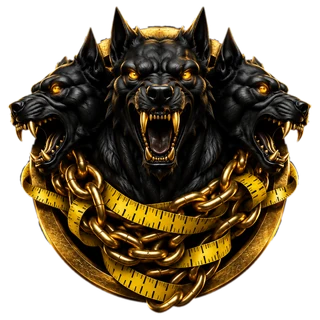
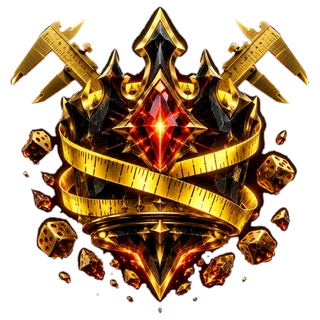
10 weitere Embleme und Titel zum Schaetzen und Raten, neues Meisterprestige ohne Hunde, Titelrahmen, Warten auf frische Fragen

diff --git a/public/index.html b/public/index.html
@@ -400,7 +400,8 @@ h1,.code,.xpbig,.big{background:linear-gradient(180deg,#FFF3B8 0%,#FFD23F 48%,#C
 .chipbtn{padding:7px 11px;border-radius:9px;background:var(--bg-deep);font-size:13px;font-weight:700;box-shadow:inset 0 0 0 1.5px rgba(255,255,255,.12)}
 .chipbtn.on{background:var(--tape);color:var(--ink);box-shadow:none}
 
-.titleimg{display:block;width:100%;max-width:240px;height:auto;border-radius:9px;box-shadow:0 3px 8px rgba(0,0,0,.4)}
+.titleimg{display:block;width:100%;max-width:240px;height:auto;border-radius:10px;
+  box-shadow:0 0 0 1.5px rgba(255,210,63,.85),0 0 0 3.5px rgba(10,30,32,.95),0 0 0 4.5px rgba(255,210,63,.35),0 4px 12px rgba(0,0,0,.5)}
 .titleimg.big{max-width:340px}
 .pl .titleimg{max-width:180px;margin-top:3px}
 .tlist button .titleimg{max-width:210px;flex:none}
@@ -427,7 +428,7 @@ h1,.code,.xpbig,.big{background:linear-gradient(180deg,#FFF3B8 0%,#FFD23F 48%,#C
 <div id="toast" role="status"></div>
 <script src="/socket.io/socket.io.js"></script>
 <script>
-const AVER = '6';
+const AVER = '7';
 const $ = (s, r = document) => r.querySelector(s);
 const esc = (s) => String(s).replace(/[&<>"']/g, (c) => ({ '&': '&amp;', '<': '&lt;', '>': '&gt;', '"': '&quot;', "'": '&#39;' }[c]));
 const app = $('#app');
@@ -617,7 +618,10 @@ function build() {
     </div><div class="col">
     <div class="panel" style="display:flex;flex-direction:column;gap:12px"><label style="margin:0">Modus</label>
       <div class="modepick" id="modepick"><button data-mode="ranked"><b>Rangliste</b><small>alle Themen · Weltranglistenpunkte</small></button><button data-mode="free"><b>Freies Spiel</b><small>Themen wählbar · ohne Wertung</small></button></div>
-      <div id="themeBox"></div></div>
+      <div id="themeBox"></div>
+      <label style="margin:6px 0 0">Neue Fragen</label>
+      <div class="seg"><button id="waitOff">Sofort starten</button><button id="waitOn">Auf frische Fragen warten</button></div>
+      <p class="sub" id="waitNote2"></p></div>
     <div class="panel" style="display:flex;flex-direction:column;gap:10px"><label style="margin:0">Zugang</label>
       <div class="seg"><button id="accPub">Öffentlich</button><button id="accPriv">Mit Passwort</button></div>
       <form id="pwForm" class="row" hidden><input class="field grow" id="pwInput" maxlength="20" autocomplete="off" placeholder="Passwort festlegen"><button class="btn small">Speichern</button></form>
@@ -635,7 +639,7 @@ function build() {
     <div id="lobbyAct" style="display:flex;flex-direction:column;gap:10px"></div></div>`;
 
   if (S.phase === 'countdown') return `
-    <div class="center" style="padding-top:4vh"><p class="sub">Es geht los in</p><div class="num big" id="bigSec"></div><p id="aiNote" class="sub" style="margin-top:8px"></p>
+    <div class="center" style="padding-top:4vh"><p class="sub" id="cdLabel">Es geht los in</p><div class="num big" id="bigSec"></div><p id="aiNote" class="sub" style="margin-top:8px"></p>
       <p class="sub" style="margin-top:14px">Freunde können bis zum Start noch beitreten</p><div class="code" style="font-size:44px;margin-top:4px">${esc(S.code)}</div>
       <button class="link" id="share">Einladungslink kopieren</button></div>
     <div id="players" class="plist"></div>
@@ -874,6 +878,8 @@ function update() {
         : `<label>Themen (${S.themes.length} von ${S.maxThemes})</label><div class="themes">${S.themeList.map((t) => `<button data-theme="${t.key}" class="${S.themes.includes(t.key) ? 'on' : ''}">${esc(t.name)}</button>`).join('')}</div>`;
       themeSel = [...S.themes];
     }
+    $('#waitOff').classList.toggle('on', !S.waitAi); $('#waitOn').classList.toggle('on', !!S.waitAi);
+    $('#waitNote2').textContent = S.waitAi ? 'Das Match startet erst, wenn die frischen Fragen fertig sind, höchstens eine Minute länger.' : 'Sind die neuen Fragen nicht rechtzeitig fertig, wird mit dem festen Pool gespielt.';
     $('#accNote').textContent = S.locked ? 'Wer beitritt, muss dieses Passwort eingeben.' : 'Jeder mit Konto kann über die Liste oder den Code beitreten.';
     $('#settings').innerHTML = Object.entries(OPTS).map(([k, [label, vals, suf]]) => `<div class="setting"><label>${label}</label><div class="seg">${vals.map((v) => `<button data-set="${k}" data-v="${v}" class="${S.settings[k] === v ? 'on' : ''}">${v}${suf}</button>`).join('')}</div></div>`).join('');
     return;
@@ -888,7 +894,7 @@ function update() {
     $('#lobbyAct').innerHTML = (host ? `<button class="btn" id="start">Match starten</button>${S.players.length < 2 ? '<p class="sub center">Allein spielen geht, zählt aber nicht als Sieg.</p>' : ''}` : '<p class="sub center">Der Host startet das Match.</p>') + '<button class="btn ghost" id="leave">Match verlassen</button>';
   }
   if (S.phase === 'countdown') {
-    $('#aiNote').textContent = { loading: 'Neue Fragen werden gerade erstellt … wenn es zu lange dauert, geht es mit dem festen Pool los.', ready: 'Neue Fragen sind fertig.', failed: 'Neue Fragen kamen nicht rechtzeitig. Es wird mit dem festen Pool gespielt.', off: '', idle: '' }[S.aiStatus] || '';
+    $('#aiNote').textContent = { loading: S.waitAi ? 'Neue Fragen werden erstellt. Das Match startet, sobald sie fertig sind.' : 'Neue Fragen werden gerade erstellt … wenn es zu lange dauert, geht es mit dem festen Pool los.', waiting: 'Warte auf die frischen Fragen …', ready: 'Neue Fragen sind fertig.', failed: 'Neue Fragen kamen nicht rechtzeitig. Es wird mit dem festen Pool gespielt.', off: '', idle: '' }[S.aiStatus] || '';
     $('#cdAct').innerHTML = (host ? '<button class="btn ghost" id="skip">Sofort loslegen</button>' : '') + '<button class="btn ghost" id="leave">Match verlassen</button>';
   }
   if (S.phase === 'question') {
@@ -991,6 +997,8 @@ document.addEventListener('click', (e) => {
   }
   else if (t.id === 'cardClear') api('/api/card', { emblem: '', title: '' }).then(async () => { await loadHome(); viewKey = ''; render(); }).catch((e) => toast(e.message));
   else if (t.dataset.color) { tagColor = t.dataset.color; document.querySelectorAll('[data-color]').forEach((b) => b.classList.toggle('on', b === t)); $('#tagIn').dispatchEvent(new Event('input')); }
+  else if (t.id === 'waitOn') socket.emit('settings', { waitAi: true });
+  else if (t.id === 'waitOff') socket.emit('settings', { waitAi: false });
   else if (t.id === 'accPub') { privMode = false; socket.emit('settings', { password: '' }); }
   else if (t.id === 'accPriv') { privMode = true; update(); $('#pwInput').focus(); }
   else if (t.id === 'doPrestige') { if (confirm('Prestige aktivieren? Level und XP starten wieder bei 1.')) api('/api/prestige', {}).then(async (r) => { await loadHome(); showUnlock(r.prestige, home.progress.names[r.prestige]); }).catch((e) => toast(e.message)); }
@@ -999,6 +1007,7 @@ document.addEventListener('click', (e) => {
 
 // ---------- Maßband-Timer ----------
 function tick() {
+  if (S && S.phase === 'countdown' && !S.endsAt) { const b = $('#bigSec'); if (b) b.textContent = '…'; const l = $('#cdLabel'); if (l) l.textContent = 'Fragen werden fertig gemacht'; }
   const tape = $('#tape'), on = S && S.endsAt && S.phase !== 'finished' && S.phase !== 'lobby';
   tape.classList.toggle('on', !!on);
   if (on) {

diff --git a/lib/game.js b/lib/game.js
@@ -10,6 +10,7 @@ const REVEAL_MS = Number(process.env.REVEAL_MS || 9000);
 const MIN_COUNTDOWN = Number(process.env.MIN_COUNTDOWN || 10);
 const COLORS = ['#FFD23F', '#FF7A6B', '#4FD1C5', '#C4A5FF', '#8BE28B', '#FFA94D'];
 const DEFAULTS = { pointLimit: 1000, maxQuestions: 25, countdown: 120, answerTime: 30 };
+const WAIT_EXTRA_MS = 60000; // so lange darf auf frische Fragen zusätzlich gewartet werden
 const ALL_THEMES = themes.list().map((t) => t.key);
 const LIMITS = { pointLimit: [300, 5000], maxQuestions: [5, 50], countdown: [MIN_COUNTDOWN, 180], answerTime: [10, 60] };
 
@@ -48,7 +49,7 @@ module.exports = function attach(io, store) {
     const q = m.current;
     const revealed = m.phase === 'reveal' || m.phase === 'finished';
     return {
-      code: m.code, phase: m.phase, hostId: m.hostId, you: uid, settings: m.settings, locked: !!m.password, ranked: m.ranked, setup: m.setup, chat: m.chat, themes: m.themes, themeList: themes.list(), maxThemes: themes.MAX_THEMES, password: uid === m.hostId ? m.password : undefined,
+      code: m.code, phase: m.phase, hostId: m.hostId, you: uid, settings: m.settings, locked: !!m.password, ranked: m.ranked, waitAi: m.waitAi, setup: m.setup, chat: m.chat, themes: m.themes, themeList: themes.list(), maxThemes: themes.MAX_THEMES, password: uid === m.hostId ? m.password : undefined,
       summary: m.phase === 'finished' ? m.summaries[uid] || null : null, now: Date.now(), endsAt: m.endsAt, totalMs: m.totalMs,
       aiStatus: m.aiStatus, qIndex: m.qIndex, qTotal: m.questions.length || m.settings.maxQuestions,
       players: [...m.players.values()].map((p) => ({ id: p.id, name: p.name, color: p.color, level: p.level, prestige: p.prestige, presShown: p.presShown, av: p.av, tag: p.tag, tagColor: p.tagColor, emblem: p.emblem, title: p.title, streak: p.streak, score: p.score, connected: p.sockets.size > 0, answered: p.answer !== null, gain: revealed ? p.gain : 0 })),
@@ -93,10 +94,10 @@ module.exports = function attach(io, store) {
     m.aiStatus = 'loading'; push(m);
     const themeList = m.ranked ? null : m.themes.map((k) => themes.byKey(k)).filter(Boolean);
     const fresh_n = Math.ceil(m.questions.length * 0.4);
-    ai.generate(fresh_n, m.questions.map((q) => q.q), { themes: themeList, timeout: Math.max(15000, m.settings.countdown * 1000 - 4000) }).then(async (raw) => {
+    ai.generate(fresh_n, m.questions.map((q) => q.q), { themes: themeList, timeout: m.waitAi ? 110000 : Math.max(15000, m.settings.countdown * 1000 - 4000) }).then(async (raw) => {
       const fresh = raw.filter(themeMatch);
       const stored = await store.addAiQuestions(fresh).catch(() => fresh.map((q, i) => ({ ...q, id: 'x' + Date.now() + i })));
-      if (m.phase !== 'countdown' || !stored.length) { m.aiStatus = stored.length ? 'ready' : 'failed'; return; }
+      if (m.phase !== 'countdown' || !stored.length) { m.aiStatus = stored.length ? 'ready' : 'failed'; if (matches.has(m.code)) push(m); return; }
       // Frische KI-Fragen ersetzen einen Teil der Pool-Fragen
       const n = m.questions.length;
       const keep = m.questions.slice(0, Math.max(0, n - stored.length));
@@ -110,7 +111,16 @@ module.exports = function attach(io, store) {
     m.phase = 'countdown'; m.qIndex = 0; m.current = null; m.reveal = null; m.winners = null;
     for (const p of m.players.values()) { p.score = 0; p.gain = 0; p.answer = null; p.match = { answered: 0, exact: 0, close: 0, mc_right: 0, mc_total: 0, dev_sum: 0, dev_n: 0 }; }
     prepareQuestions(m).catch((e) => console.error(e));
-    timer(m, m.settings.countdown * 1000, () => nextQuestion(m));
+    const startAt = Date.now();
+    const go = () => {
+      // Auf frische KI-Fragen warten, wenn der Host das will
+      if (m.waitAi && ai.enabled() && m.aiStatus === 'loading' && Date.now() - startAt < m.settings.countdown * 1000 + WAIT_EXTRA_MS) {
+        m.endsAt = null; m.aiStatus = 'waiting'; push(m);
+        clearTimeout(m.timer); m.timer = setTimeout(go, 1500); return;
+      }
+      nextQuestion(m);
+    };
+    timer(m, m.settings.countdown * 1000, go);
     push(m); pushLobbies();
   }
 
@@ -219,7 +229,7 @@ module.exports = function attach(io, store) {
     socket.on('create', () => {
       if (mine()) return fail('Du bist schon in einem Match.');
       if (matches.size >= MAX_MATCHES) return fail(`Es laufen schon ${MAX_MATCHES} Matches. Warte, bis eines endet, oder tritt einem bei.`);
-      const m = { code: newCode(), phase: 'lobby', hostId: user.id, players: new Map(), settings: { ...DEFAULTS }, questions: [], qIndex: 0, current: null, reveal: null, endsAt: null, aiStatus: ai.enabled() ? 'idle' : 'off', reportedBy: new Set(), winners: null, password: '', summaries: {}, ranked: false, themes: ALL_THEMES, setup: true, chat: [], asked: new Set(), invited: new Set() };
+      const m = { code: newCode(), phase: 'lobby', hostId: user.id, players: new Map(), settings: { ...DEFAULTS }, questions: [], qIndex: 0, current: null, reveal: null, endsAt: null, aiStatus: ai.enabled() ? 'idle' : 'off', reportedBy: new Set(), winners: null, password: '', summaries: {}, ranked: false, themes: ALL_THEMES, setup: true, chat: [], asked: new Set(), invited: new Set(), waitAi: false };
       matches.set(m.code, m);
       join(m).catch((e) => console.error(e));
     });
@@ -254,6 +264,7 @@ module.exports = function attach(io, store) {
     socket.on('settings', (s) => {
       const m = mine(); if (!m || m.hostId !== user.id || m.phase !== 'lobby' || !s) return;
       if (typeof s.password === 'string') { m.password = s.password.trim().slice(0, 20); pushLobbies(); }
+      if (typeof s.waitAi === 'boolean') m.waitAi = s.waitAi;
       if (typeof s.ranked === 'boolean') { m.ranked = s.ranked; m.themes = m.ranked ? ALL_THEMES : themes.valid(m.themes.slice(0, themes.MAX_THEMES)); pushLobbies(); }
       if (Array.isArray(s.themes) && !m.ranked) m.themes = themes.valid(s.themes);
       for (const k of Object.keys(LIMITS)) if (Number.isFinite(Number(s[k]))) m.settings[k] = clamp(Math.round(Number(s[k])), LIMITS[k]);

diff --git a/lib/cards.js b/lib/cards.js
@@ -22,6 +22,16 @@ const EMBLEMS = [
   { id: 'e18', name: 'Gipfelstürmer',need: 'Hol 3000 Punkte in einem Match',           cond: (u) => u.best_score >= 3000 },
   { id: 'e19', name: 'Rabenmutter',  need: 'Gewinne 7 Matches in Folge',               cond: (u) => u.best_streak >= 7 },
   { id: 'e20', name: 'Schlüsselmeister', need: 'Sammle 1500 Weltranglistenpunkte',     cond: (u) => u.rank_points >= 1500 },
+  { id: 'e21', name: 'Kristallkugel', need: 'Lande 30 Punktlandungen',                 cond: (u) => u.exact >= 30 },
+  { id: 'e22', name: 'Kleeblatt',     need: 'Lande 250 mal im Doppel-Bereich (×2)',    cond: (u) => u.close >= 250 },
+  { id: 'e23', name: 'Mastermind',    need: 'Beantworte 750 Auswahlfragen richtig',    cond: (u) => u.mc_right >= 750 },
+  { id: 'e24', name: 'Bankhalter',    need: 'Spiele 150 Matches zu Ende',              cond: (u) => u.matches >= 150 },
+  { id: 'e25', name: 'Allwissend',    need: 'Sammle 200.000 Punkte insgesamt',         cond: (u) => u.points >= 200000 },
+  { id: 'e26', name: 'Feinwaage',     need: 'Beantworte 1500 Fragen',                  cond: (u) => u.answered >= 1500 },
+  { id: 'e27', name: 'Schicksalskugel', need: 'Gewinne 12 Matches in Folge',           cond: (u) => u.best_streak >= 12 },
+  { id: 'e28', name: 'Zirkelschlag',  need: 'Sammle 3000 Weltranglistenpunkte',        cond: (u) => u.rank_points >= 3000 },
+  { id: 'e29', name: 'Kopf oder Zahl', need: 'Gewinne 75 Matches',                     cond: (u) => u.wins >= 75 },
+  { id: 'e30', name: 'Dreifachtreffer', need: 'Hol 4000 Punkte in einem Match',        cond: (u) => u.best_score >= 4000 },
   { id: 'secret', name: 'Pink Pages', need: 'Geheim', secret: true, code: 'GRACE' },
 ];
 
@@ -47,6 +57,16 @@ const TITLES = [
   { id: 't18', text: 'Über den Wolken',style: 'lila',   need: 'Hol 2500 Punkte in einem Match',        cond: (u) => u.best_score >= 2500 },
   { id: 't19', text: 'Unheilsbote',    style: 'lila',   need: 'Gewinne 10 Matches in Folge',           cond: (u) => u.best_streak >= 10 },
   { id: 't20', text: 'Schatzmeister',  style: 'gold',   need: 'Sammle 1000 Weltranglistenpunkte',      cond: (u) => u.rank_points >= 1000 },
+  { id: 't21', text: 'Hellseher',        style: 'lila',   need: 'Lande 25 Punktlandungen',               cond: (u) => u.exact >= 25 },
+  { id: 't22', text: 'Glückssträhne',    style: 'gruen',  need: 'Gewinne 15 Matches in Folge',           cond: (u) => u.best_streak >= 15 },
+  { id: 't23', text: 'Mastermind',       style: 'eis',    need: 'Beantworte 600 Auswahlfragen richtig',  cond: (u) => u.mc_right >= 600 },
+  { id: 't24', text: 'High Roller',      style: 'gold',   need: 'Spiele 120 Matches zu Ende',            cond: (u) => u.matches >= 120 },
+  { id: 't25', text: 'Orakel',           style: 'gold',   need: 'Sammle 150.000 Punkte insgesamt',       cond: (u) => u.points >= 150000 },
+  { id: 't26', text: 'Millimeterarbeit', style: 'grau',   need: 'Beantworte 1200 Fragen',                cond: (u) => u.answered >= 1200 },
+  { id: 't27', text: 'Kopf oder Zahl',   style: 'bronze', need: 'Gewinne 60 Matches',                    cond: (u) => u.wins >= 60 },
+  { id: 't28', text: 'Zirkelschluss',    style: 'eis',    need: 'Sammle 2500 Weltranglistenpunkte',      cond: (u) => u.rank_points >= 2500 },
+  { id: 't29', text: 'Ins Schwarze',     style: 'feuer',  need: 'Hol 3500 Punkte in einem Match',        cond: (u) => u.best_score >= 3500 },
+  { id: 't30', text: 'Königsgambit',     style: 'legende',need: 'Gewinne 100 Matches',                   cond: (u) => u.wins >= 100 },
   { id: 'tmaster', text: 'Meister aller Klassen', style: 'legende', need: 'Erreiche das Meisterprestige', cond: (u) => u.prestige >= 11 },
   { id: 'secret', text: 'BookTok-Legende', style: 'pink',  need: 'Geheim', secret: true, code: 'GRACE' },
 ];

diff --git a/README.md b/README.md
@@ -26,7 +26,7 @@ Dann http://localhost:3000 öffnen.
 - Auswahlfrage: 100 Punkte, kein Multiplikator
 
 ## Spielerkarten
-- 20 Embleme und 21 Titel, jeweils an eine Bedingung geknüpft (siehe `lib/cards.js`)
+- 30 Embleme und 31 Titel, jeweils an eine Bedingung geknüpft (siehe `lib/cards.js`)
 - Titel sind eigene Banner-Grafiken (`public/emblems/title_*.webp`), Embleme eigene Icons (`pc_*.webp`)
 - Die Spielerkarte zeigt Profilbild, Emblem, Clan-Tag, Name, Titel, Level-Balken, Prestige-Logo und die Siegesserie als Flamme (1 bis 5, Farbe steigt)
 - Auswahl im Profil, sichtbar in Lobby, Punktestand, Auflösung, Endstand und den Ranglisten
@@ -50,7 +50,7 @@ Dann http://localhost:3000 öffnen.
 ## Ablauf
 1. **Einrichten** — Host wählt Modus, Themen, Zugang und Regeln. Das Match taucht noch nirgends auf.
 2. **Match eröffnen** — Pre-Lobby mit Code, Spielerliste und Chat. Ab jetzt können andere beitreten.
-3. **Match starten** — Countdown, in dem die Fragen erstellt werden. Beitritt bleibt bis zum Start möglich, der Host kann abkürzen.
+3. **Match starten** — Countdown, in dem die Fragen erstellt werden. Steht „Auf frische Fragen warten“ an, startet das Match erst, wenn die KI fertig ist (höchstens eine Minute länger). Beitritt bleibt bis zum Start möglich, der Host kann abkürzen.
 4. Ab der ersten Frage ist das Match geschlossen. Aussteigen geht jederzeit über das ✕ unten rechts, dann aber ohne XP und Weltranglistenpunkte für dieses Match.
 
 Der Chat läuft in Pre-Lobby, Countdown und am Endstand. Er lebt nur solange das Match existiert und ist weg, sobald alle es verlassen haben.
